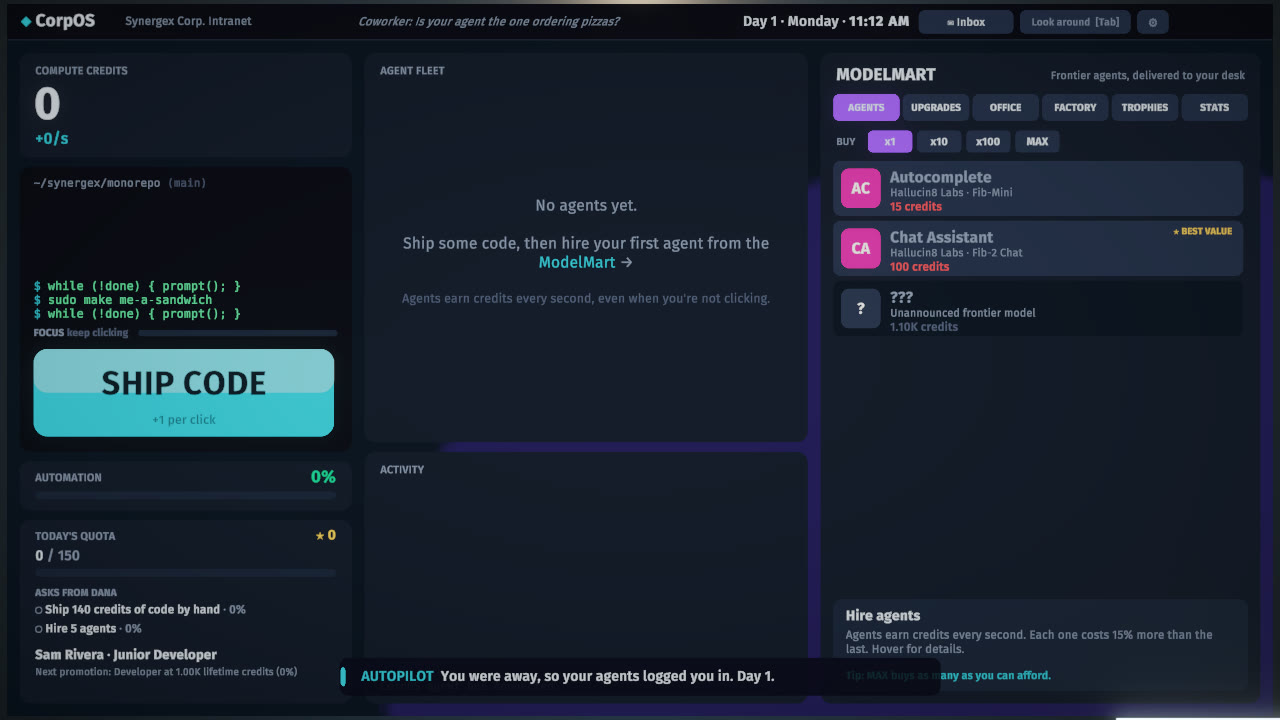
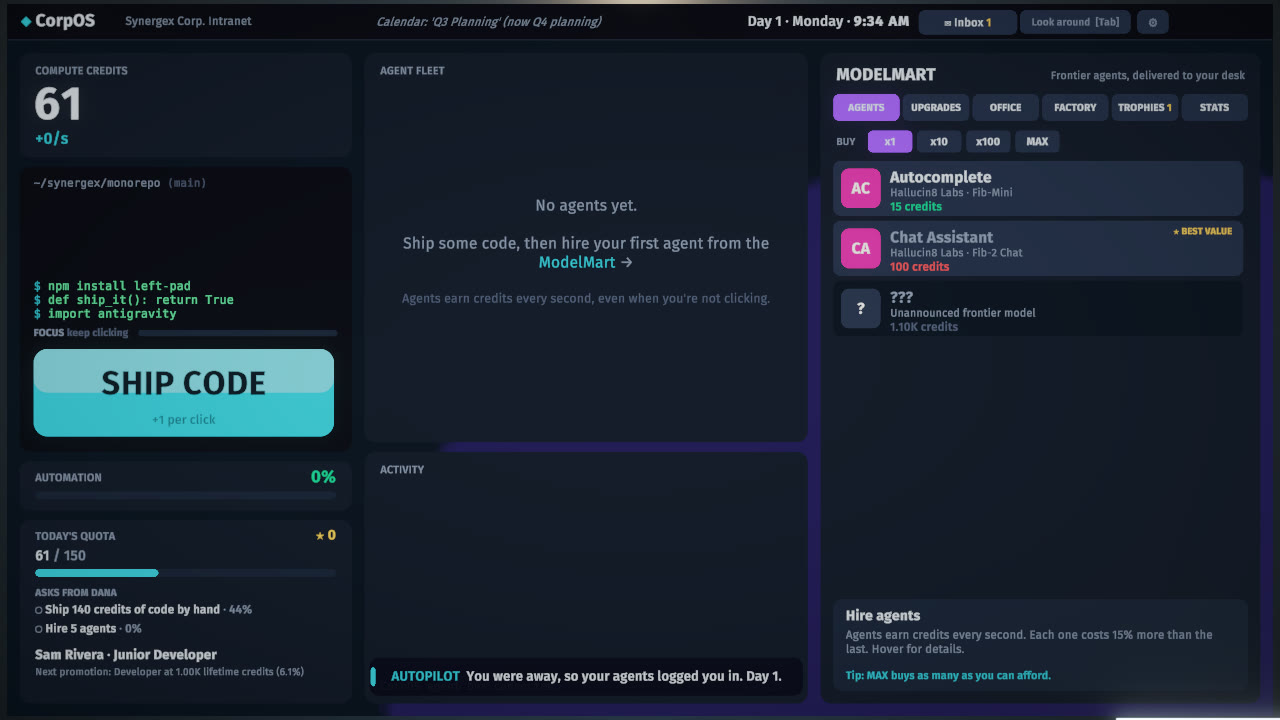
Tidy busy screens and the first minute of day 1
- Chapter banners wait until no CorpOS modal, model drop, call or menu
  is up, and sit in the upper part of the screen instead of across
  SHIP CODE.
- Toasts stay inside the middle (fleet) column and wrap long lines, so
  they no longer cover the store's info panel or the quota panel.
- The Controls tab lists the phone keys (E/Q, 1/2/3).
- bundleVersion is 0.2.0, so the title stops saying v1.0.
- Important mail auto-opens the inbox only after the first 10 clicks
  (StoryDatabase.ShouldAutoOpen), so day 1 starts at SHIP CODE instead
  of the CEO's memo.

Verified with a new EditMode test (106/106), the screenshot tour
(before/after shots in docs/media/improvements) and the browser build
in headless Chrome: no inbox after login, inbox after the first lines
of code.

diff --git a/Unity/Assets/Scripts/UI/ComputerUI.cs b/Unity/Assets/Scripts/UI/ComputerUI.cs
@@ -224,6 +224,7 @@ namespace AgentClicker.UI
                 if (_refresh <= 0) RefreshAll(dt);
                 UpdateDrop();
                 UpdateOutage();
+                UpdateAutoOpenMail();
             }
             UpdateToasts();
         }
@@ -319,15 +320,19 @@ namespace AgentClicker.UI
             var rt = card.rectTransform;
             rt.anchorMin = rt.anchorMax = new Vector2(0.5f, 0);
             rt.pivot = new Vector2(0.5f, 0);
-            rt.sizeDelta = new Vector2(760, 48);
+            // keep to the middle (fleet) column so the ship and store columns stay visible; long lines wrap
+            const float width = ToastWidth;
+            rt.sizeDelta = new Vector2(width, 48);
             var bar = UIKit.Panel(card.transform, "Accent", accent, 4);
             bar.rectTransform.Anchor(0, 0, 0, 1).Insets(10, 12, 0, 12);
             bar.rectTransform.sizeDelta = new Vector2(6, bar.rectTransform.sizeDelta.y);
-            var t = UIKit.Text(card.transform, "Text", message, 18, Theme.Text, TextAlignmentOptions.MidlineLeft, UIFonts.Medium);
+            var t = UIKit.Text(card.transform, "Text", message, 17, Theme.Text, TextAlignmentOptions.MidlineLeft, UIFonts.Medium);
+            t.textWrappingMode = TextWrappingModes.Normal;
             t.rectTransform.Fill().Insets(28, 4, 16, 4);
+            rt.sizeDelta = new Vector2(width, Mathf.Max(48, t.GetPreferredValues(message, width - 44, 0).y + 16));
             var cg = card.gameObject.AddComponent<CanvasGroup>();
             cg.blocksRaycasts = false;
-            rt.anchoredPosition = new Vector2(0, -40);
+            rt.anchoredPosition = new Vector2(ToastX, -40);
             _activeToasts.Add((rt, Time.unscaledTime + seconds, cg));
             while (_activeToasts.Count > 3)
             {
@@ -350,16 +355,19 @@ namespace AgentClicker.UI
                     continue;
                 }
                 // ease into place, then stop touching it (every change rebuilds the toast canvas)
-                var target = new Vector2(0, y);
+                var target = new Vector2(ToastX, y);
                 var p = rt.anchoredPosition;
                 if ((p - target).sqrMagnitude > 0.25f)
                     rt.anchoredPosition = Vector2.Lerp(p, target, 1 - Mathf.Exp(-Time.unscaledDeltaTime * 12));
                 else if (p != target) rt.anchoredPosition = target;
                 float a = Mathf.Clamp01(left / 0.4f);
                 if (!Mathf.Approximately(cg.alpha, a)) cg.alpha = a;
-                y += 56;
+                y += rt.sizeDelta.y + 8;
             }
         }
+
+        // the fleet column spans x 452..1012 of the 1600-wide desktop
+        const float ToastWidth = 548, ToastX = (452 + 1012) / 2f - Width / 2f;
 
         // ------------------------------------------------------------------ model drops & outages
         void BuildDropCard()
@@ -451,9 +459,22 @@ namespace AgentClicker.UI
             var who = StoryDatabase.Person(mail.From);
             _gm.Sfx.Play(Util.Sound.Mail, 0.7f);
             Toast($"✉ New email from {who.Name}: <b>{mail.Subject}</b>", Theme.Hex(who.ColorHex), 6f);
-            if (mail.Important && _gm.Settings.autoOpenStoryMail && _desktop.gameObject.activeSelf && _modal == null &&
-                _gm.Cam.Mode == Office.CamMode.Monitor)
-                StartCoroutine(OpenInboxSoon(mail.Id));
+            if (mail.Important && _gm.Settings.autoOpenStoryMail) _autoOpenMail = mail.Id;
+        }
+
+        string _autoOpenMail;
+
+        /// <summary>Opens the inbox on an important email once the moment is right (see StoryDatabase.ShouldAutoOpen).</summary>
+        void UpdateAutoOpenMail()
+        {
+            if (_autoOpenMail == null) return;
+            var m = _gm.Model;
+            var mail = StoryDatabase.MailById(_autoOpenMail);
+            if (mail == null || m.State.mailRead.Contains(_autoOpenMail) || !_gm.Settings.autoOpenStoryMail) { _autoOpenMail = null; return; }
+            if (!StoryDatabase.ShouldAutoOpen(m, mail) || !_desktop.gameObject.activeSelf || _modal != null ||
+                _gm.Cam.Mode != Office.CamMode.Monitor || _gm.Calls.Busy) return;
+            StartCoroutine(OpenInboxSoon(_autoOpenMail));
+            _autoOpenMail = null;
         }
 
         System.Collections.IEnumerator OpenInboxSoon(string id)

diff --git a/Unity/Assets/Scripts/UI/Overlay.cs b/Unity/Assets/Scripts/UI/Overlay.cs
@@ -150,6 +150,9 @@ namespace AgentClicker.UI
         TextMeshProUGUI _chapterKicker, _chapterTitle, _chapterBlurb;
         float _chapterUntil;
 
+        // the banner sits in the upper part of the screen, clear of SHIP CODE and the store
+        const float BannerY = 0.74f;
+
         /// <summary>Mid-day story beat: "CHAPTER 3 · Scale Out".</summary>
         public void ShowChapterBanner(int chapter)
         {
@@ -157,13 +160,13 @@ namespace AgentClicker.UI
             {
                 _chapter = Group("Chapter");
                 var band = UIKit.Image(_chapter.transform, "Band", new Color(0.02f, 0.03f, 0.06f, 0.8f));
-                band.rectTransform.Anchor(0, 0.5f, 1, 0.5f).Insets(0, -90, 0, -110);
+                band.rectTransform.Anchor(0, BannerY, 1, BannerY).Insets(0, -90, 0, -110);
                 _chapterKicker = UIKit.Text(_chapter.transform, "Kicker", "", 22, Theme.Gold, TextAlignmentOptions.Center, UIFonts.Bold);
-                _chapterKicker.rectTransform.Anchor(0, 0.5f, 1, 0.5f).Insets(0, 60, 0, -96);
+                _chapterKicker.rectTransform.Anchor(0, BannerY, 1, BannerY).Insets(0, 60, 0, -96);
                 _chapterTitle = UIKit.Text(_chapter.transform, "Title", "", 64, Color.white, TextAlignmentOptions.Center, UIFonts.Bold);
-                _chapterTitle.rectTransform.Anchor(0, 0.5f, 1, 0.5f).Insets(0, -20, 0, -60);
+                _chapterTitle.rectTransform.Anchor(0, BannerY, 1, BannerY).Insets(0, -20, 0, -60);
                 _chapterBlurb = UIKit.Text(_chapter.transform, "Blurb", "", 22, Theme.TextDim, TextAlignmentOptions.Center, UIFonts.Medium);
-                _chapterBlurb.rectTransform.Anchor(0, 0.5f, 1, 0.5f).Insets(0, -80, 0, 20);
+                _chapterBlurb.rectTransform.Anchor(0, BannerY, 1, BannerY).Insets(0, -80, 0, 20);
             }
             _chapterKicker.text = $"CHAPTER {chapter}";
             _chapterTitle.text = StoryDatabase.Chapters[chapter];

diff --git a/Unity/Assets/Scripts/GameManager.cs b/Unity/Assets/Scripts/GameManager.cs
@@ -50,6 +50,7 @@ namespace AgentClicker
         bool _automated;   // tour / benchmark: skip the title screen
         int _lastHour = -1;
         bool _workLate, _autoCycled, _autoLogin;
+        int _pendingChapter;
         ProbeRefresher _probe;
         readonly System.Random _rng = new System.Random();
 
@@ -280,8 +281,7 @@ namespace AgentClicker
             Model.ChapterChanged += ch =>
             {
                 if (InEnding) return; // the ending has its own fanfare
-                Sfx.Play(Sound.Chapter);
-                Overlay.ShowChapterBanner(ch);
+                _pendingChapter = ch;  // shown by UpdateChapterBanner when nothing else is on screen
             };
         }
 
@@ -345,6 +345,18 @@ namespace AgentClicker
             UpdateTutorial(dt);
             HandleKeys();
             UpdateAutopilot();
+            UpdateChapterBanner();
+        }
+
+        /// <summary>Chapter banners wait until no modal, model drop, call or menu is on screen.</summary>
+        void UpdateChapterBanner()
+        {
+            if (_pendingChapter == 0) return;
+            if (InEnding) { _pendingChapter = 0; return; }
+            if (OnTitle || !Model.IsWorking || Computer.ModalOpen || Model.ActiveDrop != null || Calls.Busy || Menu.Blocking) return;
+            Sfx.Play(Sound.Chapter);
+            Overlay.ShowChapterBanner(_pendingChapter);
+            _pendingChapter = 0;
         }
 
         // ------------------------------------------------------------------ autopilot

diff --git a/Unity/Assets/Tests/EditMode/StoryAndSettingsTests.cs b/Unity/Assets/Tests/EditMode/StoryAndSettingsTests.cs
@@ -23,6 +23,20 @@ namespace AgentClicker.Tests
         }
 
         [Test]
+        public void ImportantMailWaitsForTheFirstLinesOfCode()
+        {
+            var m = Working();
+            var mandate = m.DeliverNextMail();
+            Assert.IsTrue(mandate.Important);
+            Assert.IsFalse(StoryDatabase.ShouldAutoOpen(m, mandate), "day 1 starts with SHIP CODE, not the inbox");
+            for (int i = 0; i < StoryDatabase.AutoOpenAfterClicks - 1; i++) m.Click();
+            Assert.IsFalse(StoryDatabase.ShouldAutoOpen(m, mandate));
+            m.Click();
+            Assert.IsTrue(StoryDatabase.ShouldAutoOpen(m, mandate));
+            Assert.IsFalse(StoryDatabase.ShouldAutoOpen(m, StoryDatabase.MailById("dana_welcome")), "only important mail opens itself");
+        }
+
+        [Test]
         public void MailIsDeliveredOnceAndOnlyWhenTriggered()
         {
             var m = Working();

diff --git a/Unity/Assets/Scripts/UI/MenuUI.cs b/Unity/Assets/Scripts/UI/MenuUI.cs
@@ -291,6 +291,8 @@ namespace AgentClicker.UI
                         Row("Look around / sit down", "Tab · on-screen button") +
                         Row("Orbit the office", "Right mouse drag") +
                         Row("Zoom", "Mouse wheel (office view)") +
+                        Row("Answer / decline the phone", "E · Q") +
+                        Row("Pick a reply on a call", "1 · 2 · 3") +
                         Row("Pause menu", "Esc · ⚙ button") +
                         Row("Inbox", "✉ button in CorpOS") +
                         (Platform.IsWeb ? "" : Row("Screenshot", "F12")), 20, Theme.Text, TextAlignmentOptions.TopLeft, UIFonts.Medium);

diff --git a/Unity/Assets/Scripts/Util/Tour.cs b/Unity/Assets/Scripts/Util/Tour.cs
@@ -115,6 +115,11 @@ namespace AgentClicker
             M.SpawnDrop();
             yield return new WaitForSeconds(0.5f);
             yield return Shot("03_desktop_midgame");
+            // the chapter banner waits for the drop; claiming it lets the banner through
+            M.ClaimDrop();
+            yield return new WaitForSeconds(1.2f);
+            yield return Shot("03b_chapter_banner");
+            yield return new WaitForSeconds(3.5f);
             _gm.Computer.SelectStoreTab(2);
             yield return new WaitForSeconds(0.4f);
             yield return Shot("04_store_office");

diff --git a/Unity/Assets/Scripts/Core/Story.cs b/Unity/Assets/Scripts/Core/Story.cs
@@ -33,6 +33,11 @@ namespace AgentClicker.Core
     /// </summary>
     public static class StoryDatabase
     {
+        /// <summary>Important mail pops the inbox open, but not before the player has shipped a few lines of code.</summary>
+        public const int AutoOpenAfterClicks = 10;
+
+        public static bool ShouldAutoOpen(GameModel m, MailDef mail) => mail.Important && m.State.clicks >= AutoOpenAfterClicks;
+
         public static readonly Character[] Cast =
         {
             new Character("rex", "Rex Halvorsen", "Chief Executive Officer", "#E5484D", "RH"),

diff --git a/Design/GDD.md b/Design/GDD.md
@@ -198,7 +198,9 @@ Omni Conductor.
 | 6. Epilogue | Factory built | Record quarter, lunch with Priya, and the CEO admits he has been an Orchestrator since Q2. |
 
 Emails are delivered while you're working, at most one every 8 seconds. Chapter-opening emails open the
-inbox automatically (this can be turned off in settings). The morning day card shows the current chapter.
+inbox automatically once you've shipped your first 10 lines of code, so day 1 starts at SHIP CODE (this can be
+turned off in settings). Chapter banners wait until no modal, model drop or call is on screen, and sit in the
+upper part of the screen, clear of SHIP CODE. The morning day card shows the current chapter.
 New games start with three intro cards, and the ending has five epilogue cards followed by a credits roll.
 
 ## 13. Menus & settings

diff --git a/README.md b/README.md
@@ -205,7 +205,7 @@ editor at `~/Unity/Hub/Editor/6000.6.2f1/Editor/Unity`, or set `UNITY_EDITOR` to
 ```sh
 Tools/unity.sh setup       # URP, post-processing, player settings, reimport models (idempotent)
 Tools/unity.sh scene       # regenerate Assets/Scenes/Main.unity from the models (the scene is committed)
-Tools/unity.sh tests       # 105 EditMode tests, including the economy balance simulation
+Tools/unity.sh tests       # 106 EditMode tests, including the economy balance simulation
 Tools/unity.sh build       # Linux player → Builds/Linux
 Tools/unity.sh build-mac   # universal macOS player → Builds/Mac
 Tools/unity.sh build-webgl # browser build (Brotli, works on any static host) → Builds/WebGL
